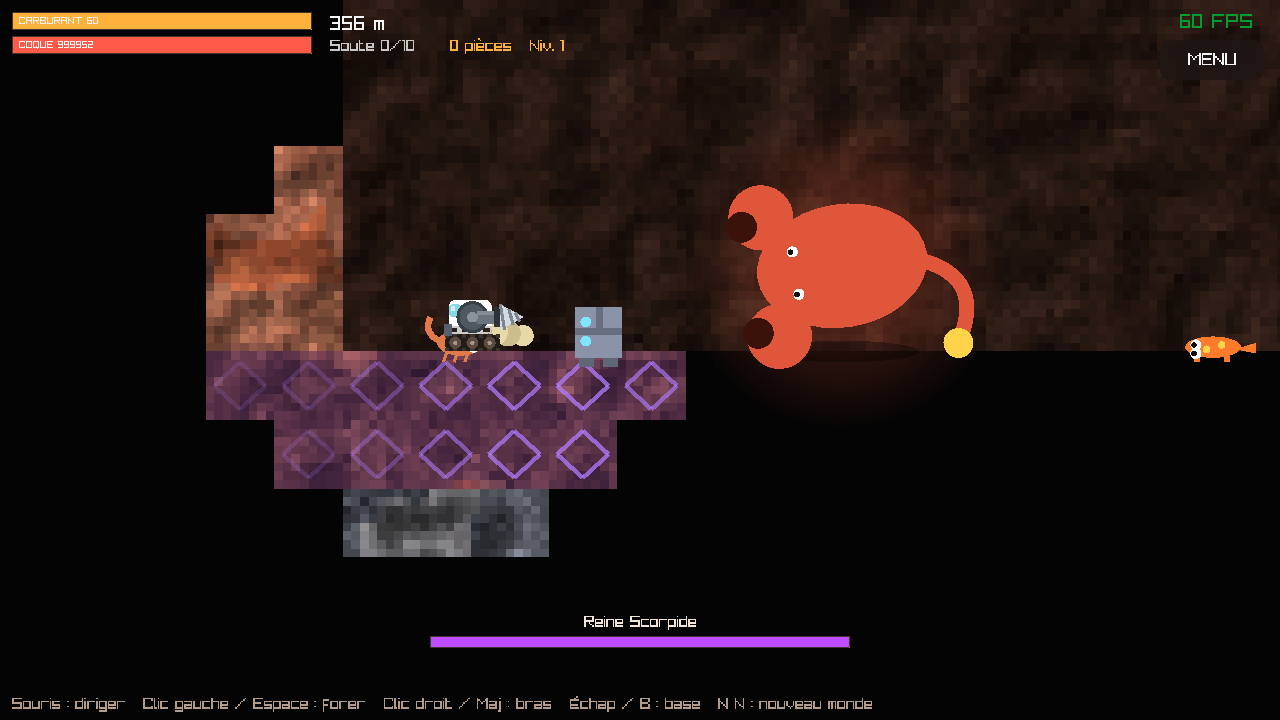
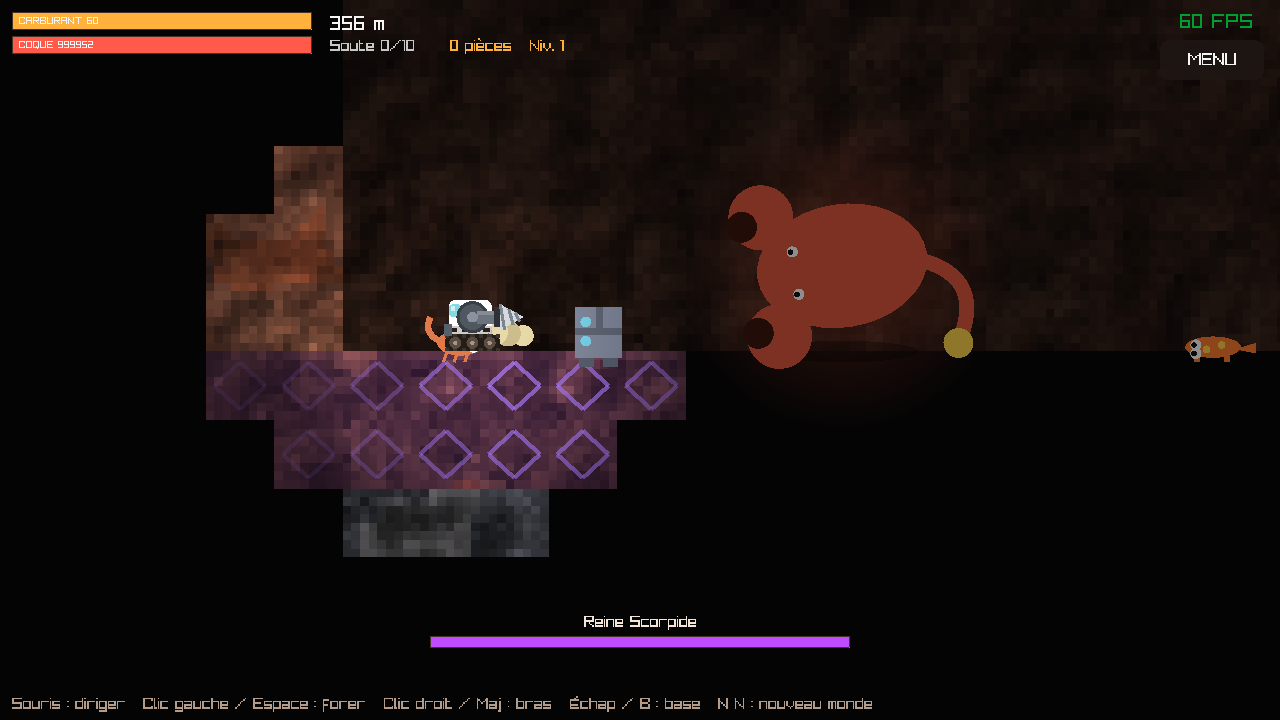
Surface, base flottante et lumière en C++
Décor de la surface (collines, colonne d'accostage, panneau MINE) et base
flottante dessinée comme dans la version JS : moteurs, pont, trappe,
garde-corps, atelier, fonderie et four, comptoir, pompe.
Halo d'obscurité sous la surface (plus léger pendant un gardien), lave
animée, radar des minerais. Créatures dessinées comme en JS, sous le halo.
Culling désactivé une fois au démarrage : jeu en 2D, triangles dans les deux
sens. Option --capture-base ; docs/capture-base.png.

diff --git a/app/src/scene_view.cpp b/app/src/scene_view.cpp
@@ -1,0 +1,154 @@
+#include "scene_view.hpp"
+
+#include <algorithm>
+#include <cmath>
+
+#include "filon/core/random.hpp"
+#include "filon/core/terrain.hpp"
+#include "raylib.h"
+#include "rlgl.h"
+
+using namespace filon;
+
+namespace {
+
+constexpr int SPAWN = 17;  // case du panneau MINE
+const Color INK{42, 22, 6, 255}, AMBER{255, 177, 59, 255}, CREAM{243, 230, 216, 255};
+
+Color rgba(int r, int g, int b, double a) {
+    return Color{static_cast<unsigned char>(r), static_cast<unsigned char>(g), static_cast<unsigned char>(b), static_cast<unsigned char>(std::lround(255 * std::clamp(a, 0.0, 1.0)))};
+}
+void rect(double x, double y, double w, double h, Color c) {
+    DrawRectangleRec({static_cast<float>(x), static_cast<float>(y), static_cast<float>(w), static_cast<float>(h)}, c);
+}
+void label(const char* text, double cx, double baseline, int size, Color c) {  // texte centré, ligne de base comme fillText
+    DrawText(text, static_cast<int>(cx) - MeasureText(text, size) / 2, static_cast<int>(baseline) - size + 1, size, c);
+}
+void building(double x, double w, double h, Color c, const char* name, double gy) {
+    rect(x, gy - h, w, h, c);
+    rect(x, gy - h, w, 5, rgba(0, 0, 0, .25));
+    rect(x - 4, gy - h - 7, w + 8, 8, Color{43, 33, 28, 255});
+    rect(x + w / 2 - 9, gy - 26, 18, 26, Color{29, 22, 18, 255});
+    label(name, x + w / 2, gy - h + 17, 10, CREAM);
+}
+
+}  // namespace
+
+void drawSurface(double camX, double vwT, double time, bool hatchOpen, bool furnaceBusy) {
+    const double gy = SURF * TS, dy = DECK * TS;
+    // collines au loin
+    const Color hill{167, 122, 88, 255};
+    const int xa = static_cast<int>(std::floor(camX / TS)) - 1, xb = static_cast<int>(std::ceil((camX + vwT) / TS)) + 1;
+    auto top = [&](int x) { return static_cast<float>(gy - TS * (1.3 + std::sin(x * .45) * .6 + std::sin(x * .17) * .8)); };
+    for (int x = xa; x < xb; ++x) {
+        const float X0 = static_cast<float>(x * TS), X1 = static_cast<float>((x + 1) * TS), G = static_cast<float>(gy);
+        DrawTriangle({X0, G}, {X1, top(x + 1)}, {X0, top(x)}, hill);
+        DrawTriangle({X0, G}, {X1, G}, {X1, top(x + 1)}, hill);
+    }
+    // colonne d'accostage : faisceau du sol jusqu'à la trappe
+    DrawRectangleGradientV(static_cast<int>(GX1 * TS), static_cast<int>(dy), static_cast<int>((GX2 - GX1) * TS), static_cast<int>(gy - dy),
+                           rgba(255, 200, 90, .32 + .08 * std::sin(time * 3)), rgba(255, 200, 90, .04));
+    // moteurs de sustentation
+    for (double ex : {DX1 + 1.2, DX1 + 4.5, DX2 - 4.5, DX2 - 1.2}) {
+        rect(ex * TS - 8, dy + 16, 16, 9, Color{58, 63, 70, 255});
+        const float fl = static_cast<float>(7 + std::sin(time * 20 + ex) * 3), X = static_cast<float>(ex * TS), Y = static_cast<float>(dy + 25);
+        DrawTriangle({X - 6, Y}, {X, Y + fl}, {X + 6, Y}, rgba(120, 200, 255, .75));
+    }
+    // pont métallique, de part et d'autre de la trappe
+    for (const auto& [a, b] : {std::pair{DX1, GX1}, std::pair{GX2, DX2}}) {
+        rect(a * TS, dy, (b - a) * TS, 16, Color{74, 82, 91, 255});
+        rect(a * TS, dy + 12, (b - a) * TS, 4, Color{46, 50, 56, 255});
+        for (double x = a * TS + 2; x < b * TS - 12; x += 16) rect(x, dy + 3, 12, 6, Color{58, 64, 72, 255});
+    }
+    for (double x : {GX1 * TS - 6, GX2 * TS})
+        for (int k = 0; k < 2; ++k) rect(x, dy + k * 8, 6, 8, k ? INK : AMBER);
+    const Color hatch{91, 99, 108, 255};
+    if (hatchOpen) {  // battants ouverts
+        rect(GX1 * TS, dy, 4, 18, hatch);
+        rect(GX2 * TS - 4, dy, 4, 18, hatch);
+    } else {
+        rect(GX1 * TS, dy, (GX2 - GX1) * TS, 14, hatch);
+        for (double x = GX1 * TS + 3; x < GX2 * TS - 4; x += 8) rect(x, dy + 3, 4, 8, INK);
+    }
+    for (const auto& [x, dir] : {std::pair{DX1 * TS, 1}, std::pair{DX2 * TS - 8, -1}}) {  // garde-corps
+        for (int k = 0; k < 4; ++k) rect(x, dy - TS + k * 8, 8, 8, k % 2 ? INK : AMBER);
+        const double rx = dir > 0 ? x : x - TS * .9 + 8;
+        rect(rx, dy - TS, TS * .9, 3, Color{138, 147, 157, 255});
+        rect(rx, dy - TS * .55, TS * .9, 3, Color{138, 147, 157, 255});
+    }
+    // bâtiments sur le pont
+    building(5.4 * TS, 3.6 * TS, 2.2 * TS, Color{75, 90, 106, 255}, "ATELIER", dy);
+    building(9.4 * TS, 2.6 * TS, 2 * TS, Color{122, 70, 50, 255}, "FONDERIE", dy);
+    rect(11.2 * TS, dy - 3.2 * TS, .5 * TS, 1.3 * TS, Color{58, 42, 34, 255});  // cheminée
+    if (furnaceBusy) rect(9.7 * TS, dy - 1.1 * TS, .6 * TS, .45 * TS, rgba(255, 150, 40, .6 + .3 * std::sin(time * 6)));
+    building(15 * TS, 3.6 * TS, 1.9 * TS, Color{93, 107, 58, 255}, "COMPTOIR", dy);
+    for (int i = 0; i < 8; ++i) {  // auvent rayé
+        const double w = (3.6 * TS + 8) / 8;
+        rect(15 * TS - 4 + i * w, dy - 1.9 * TS - 13, w, 9, i % 2 ? CREAM : Color{208, 83, 59, 255});
+    }
+    rect(19.3 * TS, dy - 30, 10, 30, Color{208, 83, 59, 255});  // pompe à carburant
+    rect(19.3 * TS + 2, dy - 26, 6, 6, CREAM);
+    // panneau MINE au sol
+    rect(SPAWN * TS + 14, gy - 24, 4, 24, Color{90, 64, 48, 255});
+    rect(SPAWN * TS + 4, gy - 34, 24, 12, AMBER);
+    label("MINE", SPAWN * TS + 16, gy - 25, 10, INK);
+}
+
+void drawLava(const World& w, const std::vector<std::uint8_t>& explored, int x0, int x1, int y0, int y1, double time) {
+    for (int y = y0; y <= y1; ++y)
+        for (int x = x0; x <= x1; ++x) {
+            if (w.at(x, y) != LAVA || !explored[static_cast<std::size_t>(y * W + x)]) continue;
+            const std::uint32_t h = hash2(x, y);
+            const double X = x * TS, Y = y * TS, k = .5 + .5 * std::sin(time * 2.5 + h % 7), top = Y + 8 + std::sin(time * 3 + x) * 1.5;
+            DrawRectangleGradientV(static_cast<int>(X), static_cast<int>(top), TS, static_cast<int>(std::ceil(Y + TS - top)),
+                                   Color{255, static_cast<unsigned char>(std::lround(170 + 50 * k)), 70, 255}, Color{194, 49, 14, 255});
+            rect(X + (h % 22) + 2, top + 2 + k * 3, 5, 2, rgba(255, 240, 160, .8));
+        }
+}
+
+void drawRadar(const World& w, const Drill& d, int radius, double light, double time) {
+    if (!radius) return;
+    for (int y = std::max(SURF, d.ty - radius); y <= std::min(H - 1, d.ty + radius); ++y)
+        for (int x = std::max(0, d.tx - radius); x <= std::min(W - 1, d.tx + radius); ++x) {
+            const std::uint8_t t = w.at(x, y);
+            const double dist = std::hypot(x - d.tx, y - d.ty);
+            if (!isOre(t) || dist > radius || dist < light - .5) continue;
+            const float X = x * TS + 16.f, Y = y * TS + 16.f, s = static_cast<float>(4 + std::sin(time * 4 + x + y) * 1.2);
+            const std::uint32_t g = ORES[t - ORE_FIRST].glint;
+            const Color c = rgba(static_cast<int>(g >> 16 & 255), static_cast<int>(g >> 8 & 255), static_cast<int>(g & 255), .75);
+            DrawTriangle({X, Y - s}, {X - s, Y}, {X + s, Y}, c);
+            DrawTriangle({X - s, Y}, {X, Y + s}, {X + s, Y}, c);
+        }
+}
+
+void drawDarkness(float sx, float sy, float sg, float r, bool bossAwake) {
+    const int vw = GetScreenWidth(), vh = GetScreenHeight();
+    if (sg >= vh) return;
+    const int top = static_cast<int>(std::floor(sg));
+    BeginScissorMode(0, top, vw, vh - top);
+    // dégradé radial comme dans la version JS : transparent jusqu'à 0,25 r, 0,2 à 0,7 r, puis 0,66 (0,45 pendant un gardien)
+    const unsigned char edge = bossAwake ? 115 : 168;
+    const float rings[4] = {r * .25f, r * .7f, r, r + 2.f * (vw + vh)};
+    const unsigned char alpha[4] = {0, 51, edge, edge};
+    constexpr int N = 96;
+    rlBegin(RL_TRIANGLES);
+    for (int ring = 0; ring < 3; ++ring)
+        for (int i = 0; i < N; ++i) {
+            const float a0 = i * 2 * PI / N, a1 = (i + 1) * 2 * PI / N;
+            const float ri = rings[ring], ro = rings[ring + 1];
+            const Vector2 i0{sx + std::cos(a0) * ri, sy + std::sin(a0) * ri}, i1{sx + std::cos(a1) * ri, sy + std::sin(a1) * ri};
+            const Vector2 o0{sx + std::cos(a0) * ro, sy + std::sin(a0) * ro}, o1{sx + std::cos(a1) * ro, sy + std::sin(a1) * ro};
+            auto v = [&](Vector2 p, unsigned char a) {
+                rlColor4ub(5, 4, 4, a);
+                rlVertex2f(p.x, p.y);
+            };
+            v(i0, alpha[ring]);
+            v(o0, alpha[ring + 1]);
+            v(o1, alpha[ring + 1]);
+            v(i0, alpha[ring]);
+            v(o1, alpha[ring + 1]);
+            v(i1, alpha[ring]);
+        }
+    rlEnd();
+    EndScissorMode();
+}

diff --git a/app/src/main.cpp b/app/src/main.cpp
@@ -5,7 +5,8 @@
 // Échap ou B : menu de la base (le jeu est en pause pendant le menu). N deux fois : nouveau monde, progression gardée.
 // Sauvegarde au format de la version JS dans $XDG_DATA_HOME/filon/save.json (sinon ~/.local/share/filon/save.json) :
 // toutes les 5 s de jeu, à la base, après un achat ou une vente, à la fermeture du menu et de la fenêtre.
-// --capture / --capture-menu / --capture-boss fichier.png : parcours d'essai (ou salle du 2e gardien), image de l'écran, puis fin.
+// --capture / --capture-menu / --capture-boss / --capture-base fichier.png : parcours d'essai (ou salle du 2e gardien, ou pont
+// de la base), image de l'écran, puis fin.
 #include <algorithm>
 #include <chrono>
 #include <cmath>
@@ -28,6 +29,7 @@
 #include "filon/core/texture.hpp"
 #include "raylib.h"
 #include "rlgl.h"
+#include "scene_view.hpp"
 #include "terrain_view.hpp"
 
 namespace {
@@ -128,9 +130,10 @@ void bar(int x, int y, int w, double frac, Color c, const std::string& label) {
 
 int main(int argc, char** argv) {
     const std::string mode = argc == 3 ? argv[1] : "";
-    const char* capture = (mode == "--capture" || mode == "--capture-menu" || mode == "--capture-boss") ? argv[2] : nullptr;
+    const char* capture = (mode == "--capture" || mode == "--capture-menu" || mode == "--capture-boss" || mode == "--capture-base") ? argv[2] : nullptr;
     SetConfigFlags(FLAG_WINDOW_RESIZABLE | FLAG_VSYNC_HINT);
     InitWindow(1280, 720, "Filon");
+    rlDisableBackfaceCulling();  // jeu en 2D : triangles tracés dans les deux sens (retournements, dégradés)
     SetExitKey(KEY_NULL);  // Échap ouvre le menu de la base
     SetTargetFPS(60);
 
@@ -167,7 +170,8 @@ int main(int argc, char** argv) {
         game->drill.x = 17.11;
         game->drill.y = SURF - PH - .001;
     }
-    const bool bossTest = mode == "--capture-boss";
+    const bool bossTest = mode == "--capture-boss", baseTest = mode == "--capture-base";
+    if (baseTest) spawnOnDeck(game->drill, drillStats(game->eco));
     if (bossTest) {  // dans la salle du 2e gardien, coque renforcée, sans bouger
         const Chamber c1 = chamber(1);
         game->drill.x = c1.x1 + 1.5;
@@ -238,7 +242,7 @@ int main(int argc, char** argv) {
             if (!in.ix && !in.iy && in.cursor && std::hypot(in.cdx, in.cdy) > .6) octant(in.cdx, in.cdy, in.ix, in.iy);
             in.drill = (!overUi && IsMouseButtonDown(MOUSE_BUTTON_LEFT)) || IsKeyDown(KEY_SPACE);
             in.grab = (!overUi && IsMouseButtonDown(MOUSE_BUTTON_RIGHT)) || IsKeyDown(KEY_LEFT_SHIFT) || IsKeyDown(KEY_RIGHT_SHIFT);
-            if (bossTest) in = DrillInput{};
+            if (bossTest || baseTest) in = DrillInput{};
             else if (capture) {  // parcours d'essai : rampe vers la droite en forant, puis bras d'accroche vers le haut à gauche
                 in = DrillInput{};
                 in.cursor = true;
@@ -353,11 +357,16 @@ int main(int argc, char** argv) {
         ClearBackground(Color{13, 11, 10, 255});
         const float skyBottom = static_cast<float>((SURF * TS - camY) * scale);
         if (skyBottom > 0) DrawRectangleGradientV(0, 0, GetScreenWidth(), static_cast<int>(skyBottom), Color{47, 93, 138, 255}, Color{242, 183, 122, 255});
-        game->view.draw(static_cast<float>(camX), static_cast<float>(camY), scale, GetScreenWidth(), GetScreenHeight());
-
         Camera2D cam{};
         cam.target = {static_cast<float>(camX), static_cast<float>(camY)};
         cam.zoom = scale;
+        if (skyBottom > 0) {  // décor de la surface et base flottante, derrière le terrain
+            BeginMode2D(cam);
+            drawSurface(camX, vwT, time, game->terrain.hatchOpen(), !eco.furnace.queue.empty());
+            EndMode2D();
+        }
+        game->view.draw(static_cast<float>(camX), static_cast<float>(camY), scale, GetScreenWidth(), GetScreenHeight());
+
         BeginMode2D(cam);
         // brouillard : cases jamais éclairées
         const int x0 = std::max(0, static_cast<int>(camX / TS)), x1 = std::min(W - 1, static_cast<int>((camX + vwT) / TS) + 1);
@@ -365,10 +374,16 @@ int main(int argc, char** argv) {
         for (int y = y0; y <= y1; ++y)
             for (int x = x0; x <= x1; ++x)
                 if (!game->explored[static_cast<std::size_t>(y * W + x)]) DrawRectangle(x * TS, y * TS, TS, TS, Color{5, 4, 4, 255});
-        // pont de la base, d'après le masque
-        for (int sx = static_cast<int>(DX1 * 8); sx < DX2 * 8; ++sx)
-            for (int sy = static_cast<int>(DECK * 8) - 8; sy < DECK * 8 + 4; ++sy)
-                if (game->terrain.cellSolid(sx, sy)) DrawRectangle(sx * PX, sy * PX, PX, PX, Color{90, 99, 108, 255});
+        drawLava(game->world, game->explored, x0, x1, y0, y1, time);
+        drawSeals(game->world, game->explored, x0, x1, y0, y1, time);
+        for (const Foe& fo : game->creatures.foes)
+            if (fo.alive && fo.x >= x0 - 1 && fo.x <= x1 + 1 && fo.y >= y0 - 1 && fo.y <= y1 + 1) drawFoe(fo, d, time);
+        bool bossAwake = false;
+        for (const Boss& bo : game->creatures.bosses) {
+            if (!bo.dead && bo.y >= y0 - 3 && bo.y <= y1 + 3) drawBoss(bo, d, time);
+            bossAwake = bossAwake || bo.active;
+        }
+        drawBullets(game->creatures);
         for (const Nugget& nu : game->nuggets) {  // pépites : 2 x 2 pixels de terre, reflet et ombre
             const OreDef& o = ORES[nu.id - ORE_FIRST];
             const float X = std::round(static_cast<float>(nu.x * TS) / 2) * 2 - 4, Y = std::round(static_cast<float>(nu.y * TS) / 2) * 2 - 4;
@@ -376,19 +391,15 @@ int main(int argc, char** argv) {
             DrawRectangleRec({X, Y, 4, 4}, Color{static_cast<unsigned char>(o.glint >> 16), static_cast<unsigned char>(o.glint >> 8), static_cast<unsigned char>(o.glint), 255});
             DrawRectangleRec({X + 4, Y + 4, 4, 4}, Color{0, 0, 0, 89});
         }
-        // shortcut: sans le halo d'obscurité de la version JS, on cache ce qui est sur une case inexplorée ; à revoir avec l'éclairage
-        auto seen = [&](double x, double y) {
-            const int tx = static_cast<int>(std::floor(x)), ty = static_cast<int>(std::floor(y));
-            return tx >= 0 && tx < W && ty >= 0 && ty < H && game->explored[static_cast<std::size_t>(ty * W + tx)];
-        };
-        drawSeals(game->world, game->explored, x0, x1, y0, y1, time);
-        for (const Foe& fo : game->creatures.foes)
-            if (fo.alive && fo.x >= x0 - 1 && fo.x <= x1 + 1 && fo.y >= y0 - 1 && fo.y <= y1 + 1 && seen(fo.x + FW / 2, fo.y + FH / 2)) drawFoe(fo, d, time);
-        for (const Boss& bo : game->creatures.bosses)
-            if (!bo.dead && bo.y >= y0 - 3 && bo.y <= y1 + 3 && (bo.active || seen(bo.x, bo.y))) drawBoss(bo, d, time);
-        drawBullets(game->creatures);
         drawArm(d);
         drawDrill(d, time);
+        EndMode2D();
+
+        // obscurité autour de la foreuse, sous la surface, puis radar et chiffres par-dessus
+        drawDarkness(static_cast<float>(((d.x + PW / 2) * TS - camX) * scale), static_cast<float>(((d.y + PH / 2) * TS - camY) * scale),
+                     std::max(0.f, skyBottom), static_cast<float>(stats.light * TS * scale), bossAwake);
+        BeginMode2D(cam);
+        drawRadar(game->world, d, static_cast<int>(effects(eco).radar), stats.light, time);
         for (const Float& fl : floats) {
             const unsigned char a = static_cast<unsigned char>(255 * std::clamp(fl.life * 1.5, 0.0, 1.0));
             const int fx = static_cast<int>(fl.x * TS) - MeasureText(fl.text.c_str(), 12) / 2, fy = static_cast<int>(fl.y * TS);

diff --git a/app/src/creature_view.cpp b/app/src/creature_view.cpp
@@ -47,7 +47,6 @@ void drawFoe(const Foe& f, const Drill& d, double time) {
     const float X = static_cast<float>((f.x + FW / 2) * TS);
     const float Y = static_cast<float>((f.y + FH) * TS - 10 + (f.vx != 0 ? std::sin(time * 12 + f.i) * 1.2 : 0));
     const Color col = f.flash > 0 ? WHITE : hex(F.color);
-    rlDisableBackfaceCulling();
     rlPushMatrix();
     rlTranslatef(X, Y, 0);
     if (d.x < f.x) rlScalef(-1, 1, 1);  // regarde la foreuse
@@ -83,7 +82,6 @@ void drawFoe(const Foe& f, const Drill& d, double time) {
         eyes(8, 2);
     }
     rlPopMatrix();
-    rlEnableBackfaceCulling();
     if (f.hp < F.hp) {
         DrawRectangleRec({X - 12, Y - 19, 24, 4}, Color{0, 0, 0, 153});
         DrawRectangleRec({X - 12, Y - 19, static_cast<float>(24 * f.hp / F.hp), 4}, Color{255, 90, 74, 255});
@@ -102,7 +100,6 @@ void drawBoss(const Boss& b, const Drill& d, double time) {
     const float a = static_cast<float>(std::atan2(d.y + PH / 2 - b.y, d.x + PW / 2 - b.x));
     const float tm = static_cast<float>(time);
     DrawCircleGradient({X, Y}, R * 1.9f, hex(B.color, 102), hex(B.color, 0));
-    rlDisableBackfaceCulling();
     rlPushMatrix();
     rlTranslatef(X, Y, 0);
     rlPushMatrix();
@@ -157,7 +154,6 @@ void drawBoss(const Boss& b, const Drill& d, double time) {
         eyes(R * .35f, R * .22f);
     }
     rlPopMatrix();
-    rlEnableBackfaceCulling();
 }
 
 void drawBullets(const Creatures& c) {

diff --git a/app/src/scene_view.hpp b/app/src/scene_view.hpp
@@ -1,0 +1,20 @@
+#pragma once
+// Décor et lumière, d'après drawSurface, drawAir et le halo de la version JS.
+#include <cstdint>
+#include <vector>
+
+#include "filon/core/drill.hpp"
+#include "filon/core/world.hpp"
+
+// Collines, colonne d'accostage, base flottante (moteurs, pont, trappe, garde-corps, bâtiments, pompe) et panneau MINE.
+// En pixels du monde, dans BeginMode2D, avant le terrain.
+void drawSurface(double camX, double vwT, double time, bool hatchOpen, bool furnaceBusy);
+
+// Bassins de lave animés sur les cases explorées (pixels du monde).
+void drawLava(const filon::World& w, const std::vector<std::uint8_t>& explored, int x0, int x1, int y0, int y1, double time);
+
+// Radar : losanges sur les minerais à portée mais hors de la lumière (pixels du monde).
+void drawRadar(const filon::World& w, const filon::Drill& d, int radius, double light, double time);
+
+// Obscurité autour de la foreuse, sous la surface : (sx, sy) centre, sg haut du sous-sol, r rayon, en pixels d'écran.
+void drawDarkness(float sx, float sy, float sg, float r, bool bossAwake);

diff --git a/app/src/drill_view.cpp b/app/src/drill_view.cpp
@@ -37,7 +37,6 @@ void drawArm(const filon::Drill& d) {
 void drawDrill(const filon::Drill& d, double time) {
     using namespace filon;
     const float X = static_cast<float>((d.x + PW / 2) * TS), Y = static_cast<float>((d.y + PH + d.vis) * TS);
-    rlDisableBackfaceCulling();  // le retournement (sens de marche) inverse l'ordre des sommets
     rlPushMatrix();
     rlTranslatef(X, Y - 12, 0);
     if (d.side < 0) rlScalef(-1, 1, 1);
@@ -89,5 +88,4 @@ void drawDrill(const filon::Drill& d, double time) {
     DrawCircleV({0, 0}, 2.5f, Color{138, 147, 157, 255});
     rlPopMatrix();
     rlDrawRenderBatchActive();
-    rlEnableBackfaceCulling();
 }

diff --git a/docs/fiche-technique.md b/docs/fiche-technique.md
@@ -224,7 +224,7 @@ C++ : `imul` = multiplication `int32_t` avec débordement (passer par `uint32_t`
 - Fin de charge (mur ou délai) ou atterrissage (`vy > 4` au contact du sol) → `roam` (durée `max(0.8, 1.6 + 1.2·rand − 0.15L)`) + éclats (`shots`, +4 si PV < 50 %) en éventail vers le haut (angles de −0.12π à −0.88π), vitesse 6–8.5, gravité 9, dégâts 0.6×, durée 4 s, détruits par un pixel plein, touchent la foreuse à moins de 0.5 case.
 - Contact gardien–foreuse : distance < 1.65 case. Coup de foret possible à moins de 2.05 case, dans l'axe de la tête (cosinus > 0.35), délai 0.3 s.
 - Mort → sceau de la couche changé en ROCK, récompense, sauvegarde.
-- C++ (`core/creatures`) : mêmes règles, hasard tiré d'un `Rng` dans le même ordre que `Math.random`. Test `parite-creatures` : 2400 images comparées à la version JS avec `Math.random` remplacé par `rng(4242)` (larve qui mord puis meurt, réveil, charges, sauts, éclats, remise en place, défaite et sceau brisé). Particularité gardée : un éclat qui détruit la foreuse n'efface pas les autres éclats (`bullets = bullets.filter(...)` remplace l'effacement fait par `strand`). Affichage : créatures et sceaux seulement sur les cases explorées, tant que le halo de lumière n'est pas porté.
+- C++ (`core/creatures`) : mêmes règles, hasard tiré d'un `Rng` dans le même ordre que `Math.random`. Test `parite-creatures` : 2400 images comparées à la version JS avec `Math.random` remplacé par `rng(4242)` (larve qui mord puis meurt, réveil, charges, sauts, éclats, remise en place, défaite et sceau brisé). Particularité gardée : un éclat qui détruit la foreuse n'efface pas les autres éclats (`bullets = bullets.filter(...)` remplace l'effacement fait par `strand`).
 
 ### 5.3 Pépites (L440–454)
 - Apparition au pixel retiré, `vx ∈ ±1.25`, `vy ∈ [−4, −2]` ; 200 max.
@@ -279,7 +279,9 @@ Prospecteur (+8 % de valeur), Filon double (+6 % de chance), Turbo (+6 % de fora
 - **Textures de terre** en blocs de 12 × 8 cases (96 × 64 pixels de terre), générées à la demande (budget ~14 ms par image, 30 blocs en cache), affichées sans lissage (pixels nets).
 - Couleur d'un pixel (`texel`) : frontières de matériau ondulées (fbm, ±22 px), palette par couche et matériau (`PAL` L139), strates pour le meuble, fissures pour la roche, grain pour la roche dure, braises en couche 3, pépites incrustées pour les minerais de `T`, relief, variation par pixel ±12 % quantifiée par paliers de 0.1, herbe sur la rangée `SURF`.
 - Ombrage selon le masque : pixel plein exposé par le haut ×1.18 ; pixel creusé ×0.27 (×0.17 sous un surplomb).
-- Brouillard : case non explorée en noir. Lumière : dégradé radial de rayon `light`.
+- Brouillard : case non explorée en noir. Lumière : dégradé radial de rayon `light`, sous la surface seulement : transparent jusqu'à 0.25·r, opacité 0.2 à 0.7·r, 0.66 au-delà de r (0.45 pendant un combat de gardien). Créatures et gardiens dessinés avant le halo, même sur les cases inexplorées ; sceaux et lave seulement sur les cases explorées.
+- Radar : losanges sur les minerais entre `light − 0.5` et `3 + 2·niveau` cases, par-dessus le halo.
+- C++ (`app/src/scene_view`) : surface, base, lave, radar et halo, dans le même ordre que la version JS (décor, terrain, brouillard et lave, créatures, pépites, foreuse, halo, radar, chiffres). Captures : `docs/capture-base.png`, `docs/capture-gardien.png`.
 - Caméra amortie : `1 − e^(−10·dt)` en X, `1 − e^(−6·dt)` en Y, recalage si écart > 6 cases.
 - Échelle : `clamp(min(largeur, hauteur)/(10.5·32), 0.9, 2.2)`.
 
